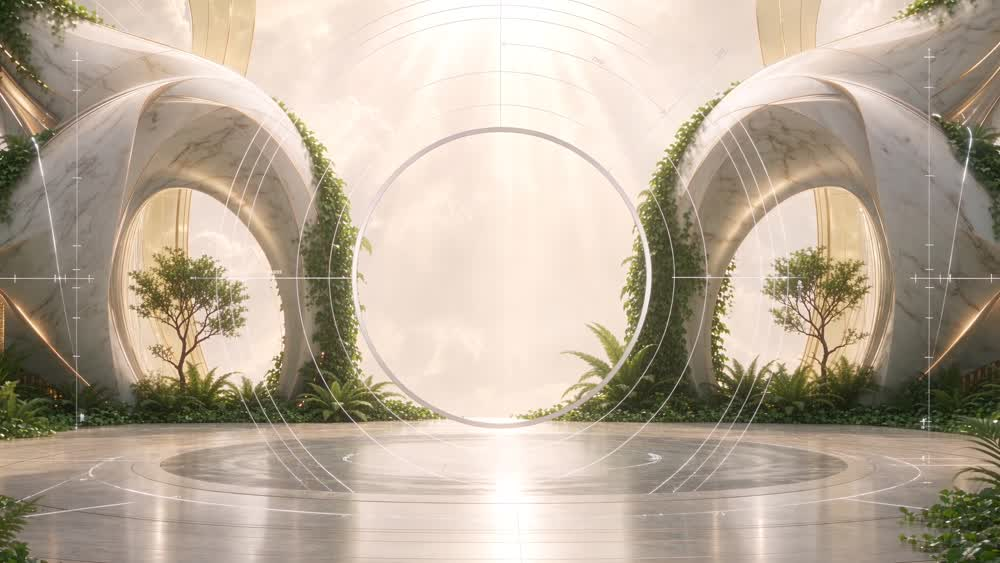
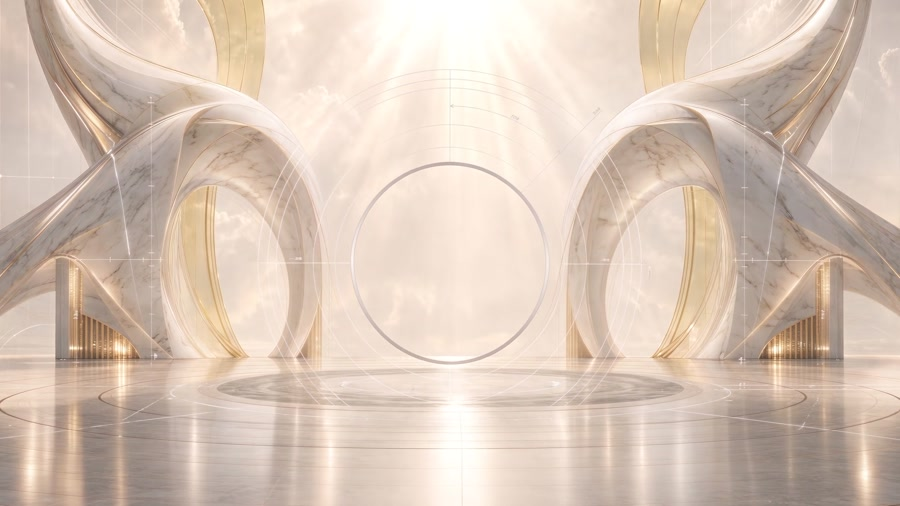
Fix six-minute-film poster inside BP circle: clean 121s marble frame (no greenery)

diff --git a/index.html b/index.html
@@ -243,7 +243,7 @@
         <circle cx="50" cy="50" r="23.5" fill="none" stroke="rgba(255,246,230,.3)" stroke-width=".25" stroke-dasharray="1 1.6"/>
       </svg>
       <button class="bp-film" id="bpFilm" type="button" aria-label="The Private Origin of Architecture — six-minute film">
-        <img src="source-frames/f_110.jpg" alt="">
+        <img src="source-frames/f_121.jpg" alt="">
         <span class="pl">&#9654;</span>
         <span class="ft">The Private Origin of Architecture</span>
         <span class="fs">The Six-Minute Film</span>
